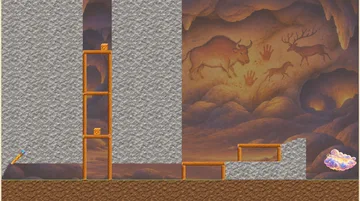
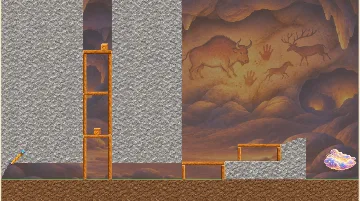
v4

diff --git a/editor.html b/editor.html
@@ -3,7 +3,7 @@
 <head>
 <meta charset="utf-8">
 <meta name="viewport" content="width=device-width, initial-scale=1">
-<title>Oelieboelie Editor v1.51</title>
+<title>Oelieboelie Editor v1.52</title>
 <style>
   :root{ --bg:#16202b; --panel:#1f2b38; --panel2:#263445; --rand:#334457; --text:#e8eef5; --muted:#93a4b6; --accent:#7fb2ff; }
   *{box-sizing:border-box}
@@ -96,7 +96,7 @@
 <body>
 <div id="opgeslagen" role="status" aria-live="polite"><div class="vink">✓</div><div class="kop">Opgeslagen!</div><div class="uitleg"></div></div>
 <header>
-  <h1>Oelieboelie Editor<span>v1.51</span><span id="stand"></span></h1>
+  <h1>Oelieboelie Editor<span>v1.52</span><span id="stand"></span></h1>
   <label class="veld">Levelnummer<input id="nummer" type="number" min="1" max="100" value="1"></label>
   <label class="veld">Naam<input id="naam" type="text" value="Mijn eerste level"></label>
   <label class="veld" id="klaarVeld" title="Alleen klare levels staan in het prentenboek van de spelers (onaffe levels altijd achteraan zetten)">Klaar<input id="klaar" type="checkbox"></label>
@@ -1682,6 +1682,7 @@ function opslaan(){
   const klaar = waar => {
     gewijzigd = false; bewaarConcept();
     toonOpgeslagen(waar.startsWith('in je map') ? `${boek.length} levels in je levelboek. Versturen gaat met GitHub Desktop.` : 'Het levelboek staat in je map Downloads.');
+    if(waar.startsWith('in je map')) setTimeout(maakDuimnagels, 1900);   // (v1.52) daarna de plaatjes voor het prentenboek
     meld(fouten.length ? 'Opgeslagen, maar let op: ' + fouten.join('; ') + '.'
                        : `Levelboek opgeslagen ${waar} (${boek.length} level${boek.length===1?'':'s'}).`);
   };
@@ -1787,9 +1788,52 @@ function terugNaarEditor(){
 }
 window.addEventListener('message', e => {
   const b = e.data || {};
-  if(b.soort === 'spelKlaar'){ spelGeladen = true; if(wachtendLevel){ $('proefFrame').contentWindow.postMessage({ soort: 'proefspelen', ...wachtendLevel }, '*'); wachtendLevel = null; } }
-  if(b.soort === 'terugNaarEditor') terugNaarEditor();
+  if(b.soort === 'spelKlaar' && e.source === $('proefFrame').contentWindow){ spelGeladen = true; if(wachtendLevel){ $('proefFrame').contentWindow.postMessage({ soort: 'proefspelen', ...wachtendLevel }, '*'); wachtendLevel = null; } }
+  if(b.soort === 'terugNaarEditor' && e.source === $('proefFrame').contentWindow) terugNaarEditor();
 });
+// =====================================================================
+// (v1.52) DUIMNAGELS VOOR HET PRENTENBOEK (alleen makersstand)
+// Na Opslaan maakt de editor zelf de plaatjes (plaatjes/levels/levelN.webp): voor elk level dat nieuw is,
+// veranderd is of een ander nummer heeft gekregen. Dat gebeurt in een verborgen spelvenstertje; de minisite
+// zet het plaatje in de map. Welke plaatjes al kloppen, staat in localStorage (DUIM_SLEUTEL: nummer -> vingerafdruk).
+// =====================================================================
+const DUIM_SLEUTEL = 'oelieboelie_duimnagels_v1';
+function levelVingerafdruk(l){ const { naam, klaar, nummer, ...rest } = l; const t = JSON.stringify(rest);
+  let h = 0; for(let i = 0; i < t.length; i++) h = (h*31 + t.charCodeAt(i)) | 0; return h + ':' + t.length; }
+let duimFrame = null, duimGeladen = null, duimBezig = false;
+function duimSpel(){
+  if(duimGeladen) return duimGeladen;
+  duimFrame = document.createElement('iframe');
+  duimFrame.setAttribute('aria-hidden', 'true'); duimFrame.tabIndex = -1;
+  duimFrame.style.cssText = 'position:fixed;left:-20000px;top:0;width:1600px;height:900px;border:0;pointer-events:none';
+  duimGeladen = new Promise(ok => { const f = e => { if(e.source === duimFrame.contentWindow && (e.data || {}).soort === 'spelKlaar'){ window.removeEventListener('message', f); ok(); } };
+    window.addEventListener('message', f); });
+  duimFrame.src = 'spel.html'; document.body.appendChild(duimFrame);
+  return duimGeladen;
+}
+async function maakDuimnagels(){
+  if(!MAKER || duimBezig) return;
+  let klaar = {}; try{ klaar = JSON.parse(localStorage.getItem(DUIM_SLEUTEL) || '{}'); }catch(e){}
+  const nodig = boek.filter(l => l.potlood && l.toverwolk && klaar[l.nummer] !== levelVingerafdruk(l));
+  if(!nodig.length) return;
+  duimBezig = true;
+  try{
+    await duimSpel(); const w = duimFrame.contentWindow;
+    w.postMessage({ soort: 'duimnagelBoek', boek, achtergronden }, '*');
+    let gelukt = 0;
+    for(let i = 0; i < nodig.length; i++){ const l = nodig[i];
+      meld(`Plaatjes voor het prentenboek maken… ${i + 1} van ${nodig.length}`, 60000);
+      const blob = await new Promise(ok => {
+        const f = e => { const d = e.data || {}; if(e.source === w && d.soort === 'duimnagelKlaar' && d.nummer === l.nummer){ window.removeEventListener('message', f); clearTimeout(t); ok(d.blob); } };
+        const t = setTimeout(() => { window.removeEventListener('message', f); ok(null); }, 10000);
+        window.addEventListener('message', f); w.postMessage({ soort: 'duimnagel', level: l }, '*'); });
+      if(!blob) continue;
+      const r = await fetch('opslaan/duimnagel?nr=' + l.nummer, { method: 'POST', body: blob }).catch(() => null);
+      if(r && r.ok){ gelukt++; klaar[l.nummer] = levelVingerafdruk(l); try{ localStorage.setItem(DUIM_SLEUTEL, JSON.stringify(klaar)); }catch(e){} }
+    }
+    meld(`Klaar: ${gelukt} plaatje${gelukt === 1 ? '' : 's'} voor het prentenboek bijgewerkt.`);
+  } finally { duimBezig = false; }
+}
 $('proef').onclick = proefspelen;
 $('terug').onclick = terugNaarEditor;
 

diff --git a/spel.html b/spel.html
@@ -3,7 +3,7 @@
 <head>
 <meta charset="utf-8">
 <meta name="viewport" content="width=device-width, initial-scale=1, maximum-scale=1, user-scalable=no">
-<title>Oelieboelie v1.64</title>
+<title>Oelieboelie v1.65</title>
 <style>
   :root{ --bg:#16202b; --panel:#1f2b38; --text:#e8eef5; --muted:#93a4b6; --accent:#7fb2ff; }
   *{box-sizing:border-box}
@@ -229,7 +229,7 @@
 // =====================================================================
 const TEKST = {
   titel: 'Oelieboelie',
-  versie: 'v1.64 · eigen achtergronden in de grote opslag',
+  versie: 'v1.65 · duimnagels door de editor',
   uitlegTeller: { getekend: 'Getekend', wolk: nodig => `In de toverwolk · nodig: ${nodig}`, af: 'Af' },
   draaiScherm: 'Draai je scherm een kwartslag',
   gum: 'Uitgummen: wie nog rondloopt wordt uitgegumd en het level stopt (twee keer drukken)',
@@ -5688,6 +5688,22 @@ if(IN_EDITOR){
       catch(err){ meld(err.message); }
     }
     if(b.soort === 'pauze') zetPauze(true);   // terug in de editor: het spel staat stil
+    // (v1.65) De editor laat (in een verborgen venstertje) duimnagels voor het prentenboek maken:
+    // het begin van het level, het eerste scherm breed, verkleind tot 360×201.
+    if(b.soort === 'duimnagelBoek'){
+      if(Array.isArray(b.boek)){ LEVELLIJST.length = 0; LEVELLIJST.push(...b.boek); }
+      if(b.achtergronden) Object.assign(ACHTERGRONDEN, b.achtergronden);
+    }
+    if(b.soort === 'duimnagel'){
+      try{ laadLevel(b.level); staat.rondleiding = null; zetPauze(true); staat.camX = 0; }
+      catch(err){ e.source.postMessage({ soort: 'duimnagelKlaar', nummer: b.level && b.level.nummer, blob: null }, '*'); return; }
+      setTimeout(() => {
+        const c = $('doek'), w = Math.min(c.width, Math.round(1600*beeld.schaal*beeld.dpr)), h = c.height;
+        const k = document.createElement('canvas'); k.width = 360; k.height = 201;
+        const g = k.getContext('2d'); g.imageSmoothingQuality = 'high'; g.drawImage(c, 0, 0, w, h, 0, 0, 360, 201);
+        k.toBlob(blob => e.source.postMessage({ soort: 'duimnagelKlaar', nummer: b.level.nummer, blob }, '*'), 'image/webp', 0.82);
+      }, 900);   // even wachten tot de achtergrond klaar is
+    }
   });
   window.addEventListener('keydown', e => { if(e.code === 'Escape') window.parent.postMessage({ soort: 'terugNaarEditor' }, '*'); });
 }
